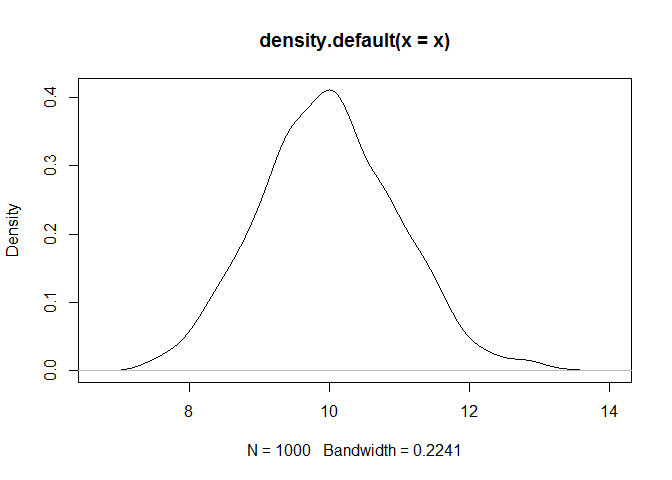
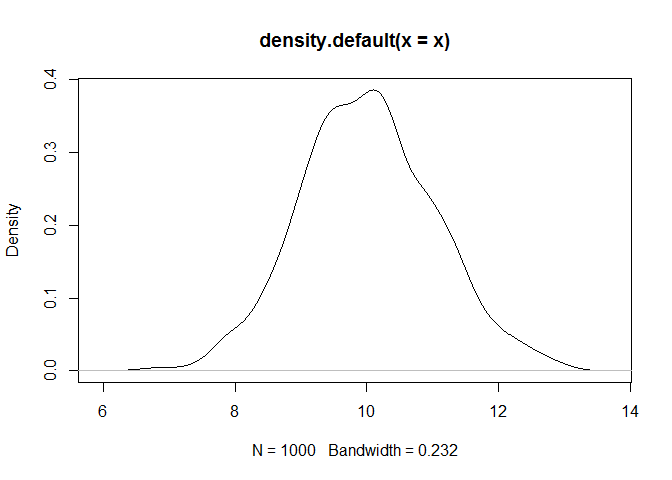
re-ran knit

diff --git a/rmarkdownrocks.md b/rmarkdownrocks.md
@@ -15,7 +15,7 @@ x <- rnorm(1000)+10.0
 head(x)
 ```
 
-    ## [1] 10.040299 12.034420 10.568816  8.355538  9.768671 10.746570
+    ## [1]  8.450166 11.733331  9.577536  9.482461 10.329325 11.812122
 
 Including Plots
 ---------------
